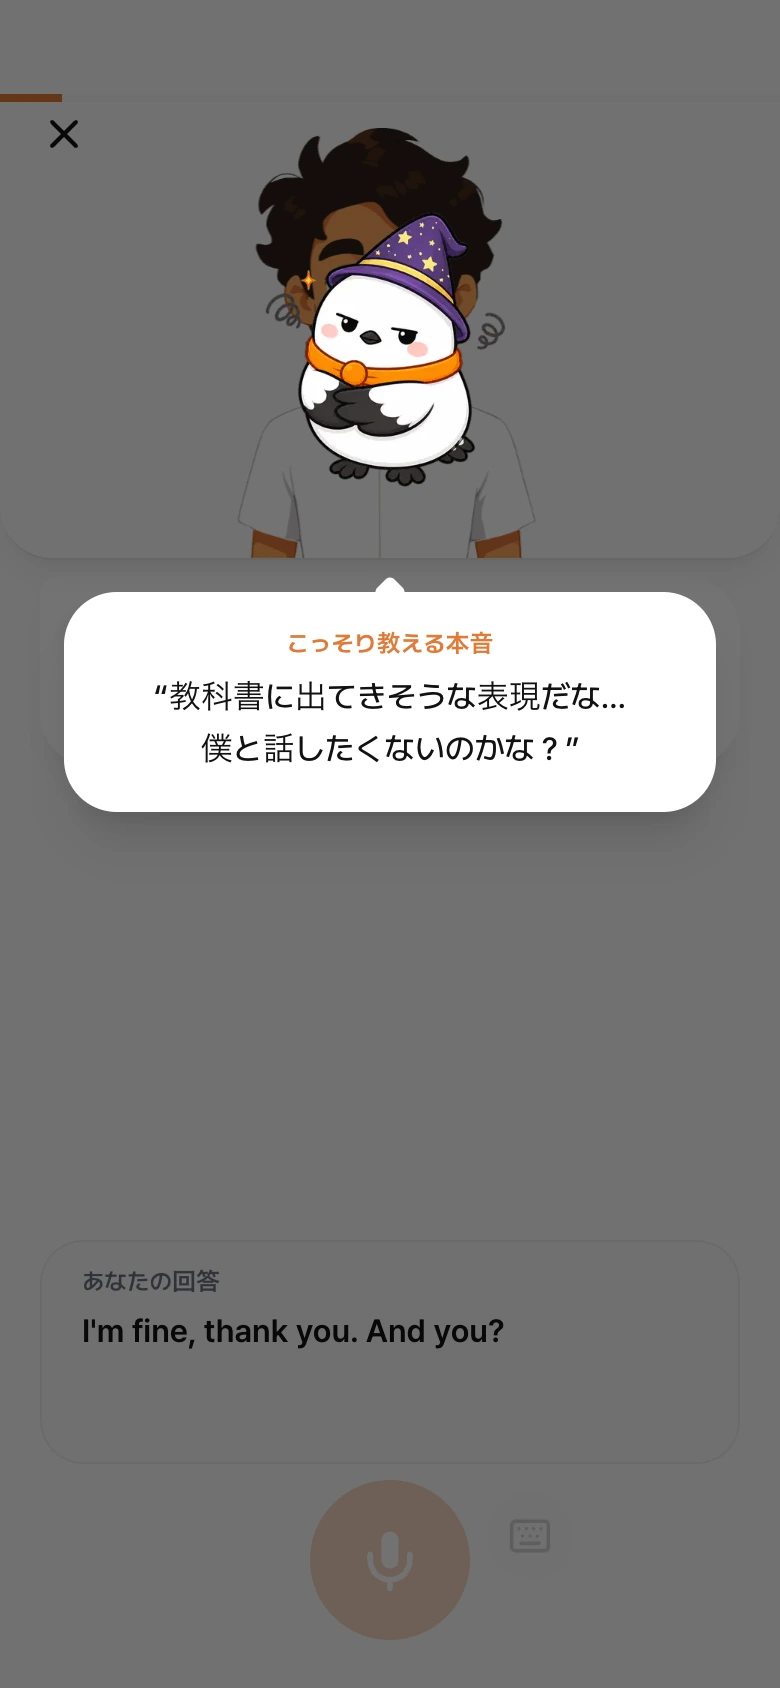
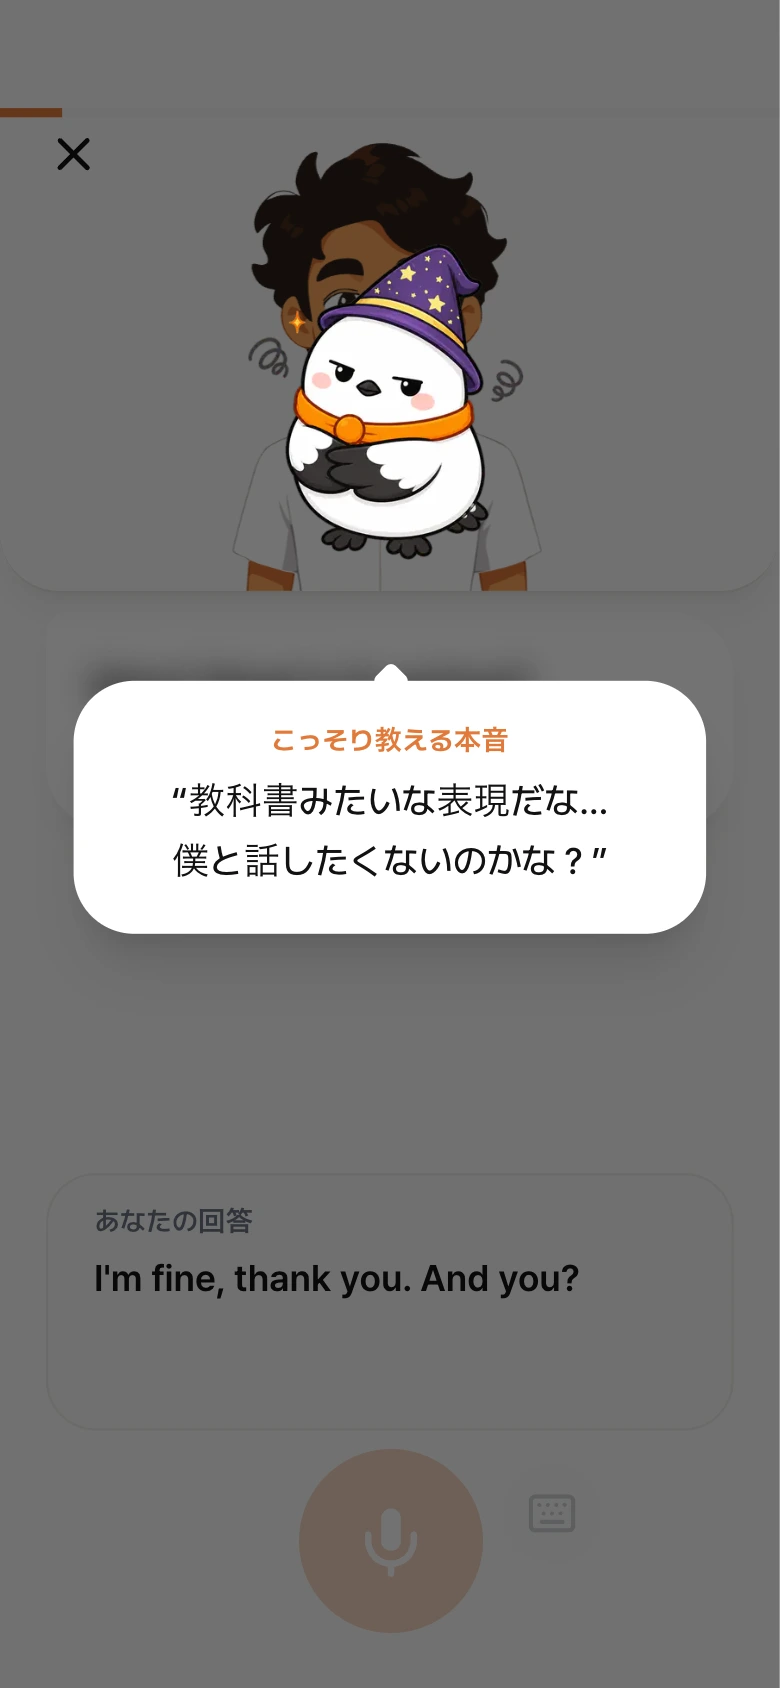
fix(web): 속마음 화면을 랜딩용으로 크게 다시 찍는다
- 앱 화면 전체를 1.15배로 찍어 속마음 말풍선 글자가 잘 읽히게 한다
- 두 장의 말풍선 폭은 가장 넓은 폭으로 같게 맞추고, 퍼지는 자리를 말풍선 가운데로 옮긴다

diff --git a/apps/web/src/app/(public)/[lang]/_model/screen-image.ts b/apps/web/src/app/(public)/[lang]/_model/screen-image.ts
@@ -2,7 +2,7 @@
 import type { Locale } from '@/shared/i18n/locale';
 
 /** 캡처를 다시 찍으면 올린다 — 같은 주소의 옛 그림이 브라우저에 하루 동안 남기 때문이다 */
-const SCREENS_VERSION = 5;
+const SCREENS_VERSION = 7;
 
 /** 폰 화면 캡처 경로 — 일본어 화면은 일본어로 다시 찍은 캡처를 쓴다 */
 export const screenPath = (locale: Locale, shot: string) =>

diff --git a/apps/web/src/app/(public)/[lang]/_ui/LandingFeatures.tsx b/apps/web/src/app/(public)/[lang]/_ui/LandingFeatures.tsx
@@ -36,7 +36,7 @@ const FEATURES: {
     shot: 'thought-fine',
     next: {
       shot: 'thought-native',
-      origin: { ko: { x: 50, y: 41 }, ja: { x: 50, y: 41 } },
+      origin: { ko: { x: 50, y: 48 }, ja: { x: 50, y: 48 } },
       labelKey: 'thoughtGoodScreenLabel',
     },
   },
